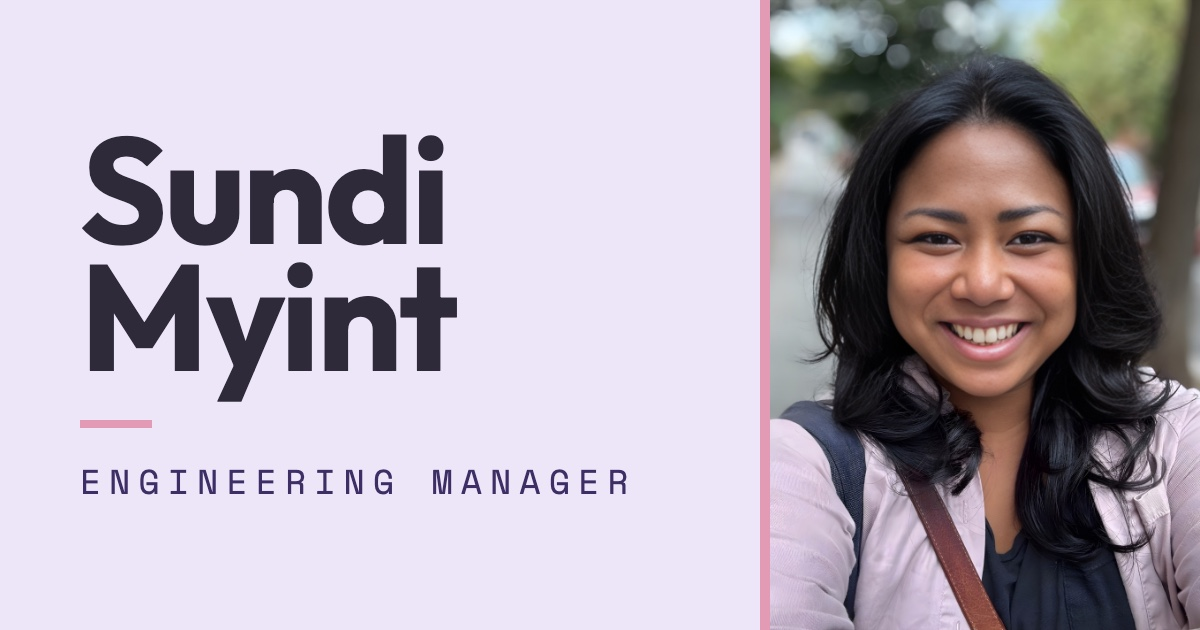
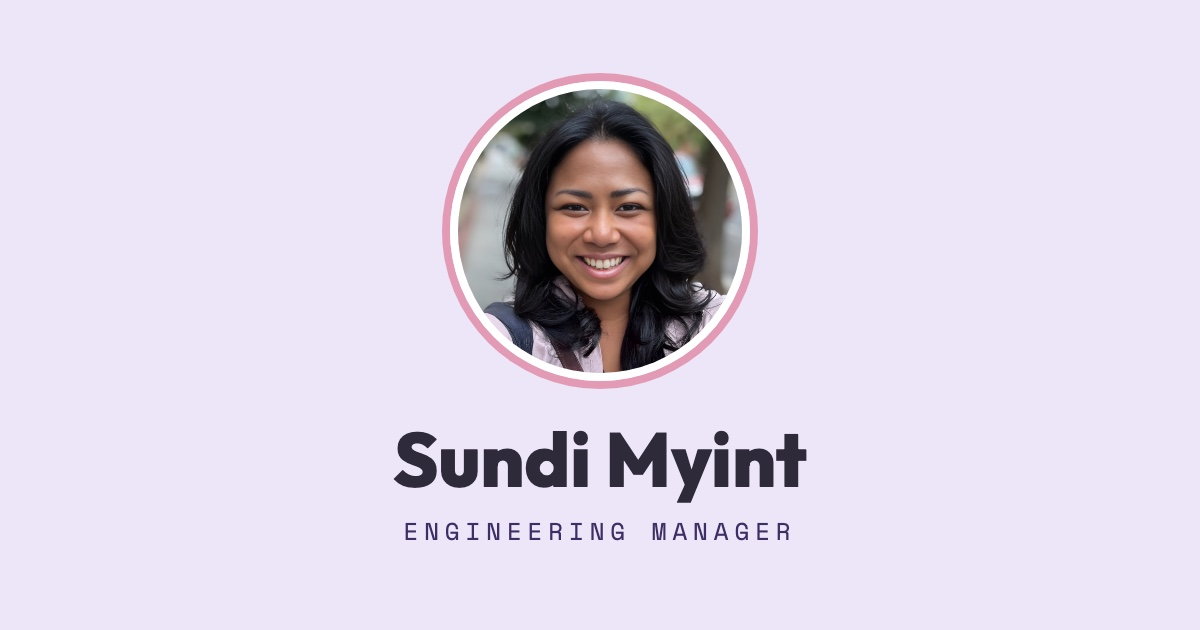
Center the link preview card for square crops
Slack crops preview images to a center square, which cut off the name
and photo. The new card stacks a round headshot with a rose ring above
the name and title, all in the middle. Bumps the image URL so apps
fetch the new version.

diff --git a/index.html b/index.html
@@ -17,7 +17,7 @@
   <meta property="og:url" content="https://sundimyint.com/">
   <meta property="og:title" content="Sundi Myint | Engineering Manager">
   <meta property="og:description" content="Engineering manager, Elixir community speaker, podcaster, and team builder. 10+ years shipping high-traffic consumer products for web and mobile.">
-  <meta property="og:image" content="https://sundimyint.com/images/share.jpg">
+  <meta property="og:image" content="https://sundimyint.com/images/share.jpg?v=2">
   <meta property="og:image:width" content="1200">
   <meta property="og:image:height" content="630">
   <meta property="og:image:alt" content="Sundi Myint, Engineering Manager">
